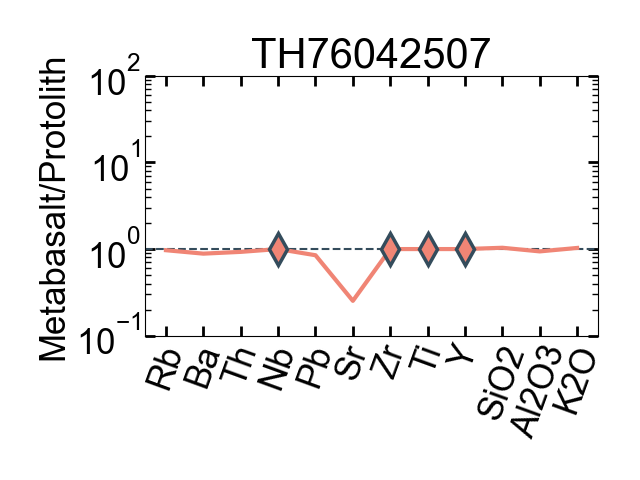
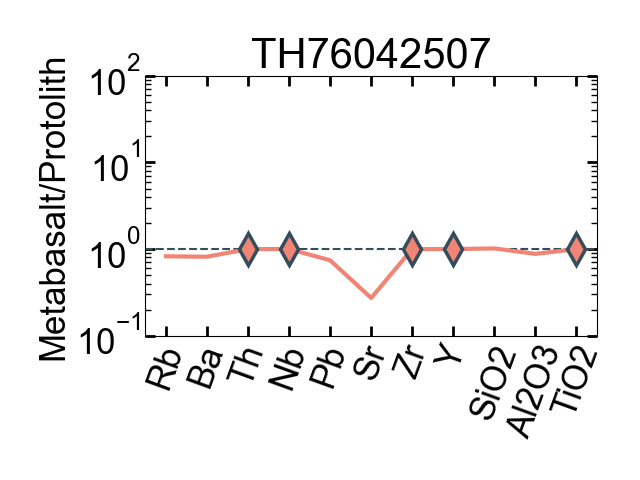
微修正->Ratioは正しく表示可能済み

diff --git a/pages/03_3nd_PRMs_Prediction.py b/pages/03_3nd_PRMs_Prediction.py
@@ -180,17 +180,16 @@ if uploaded_file is not None:
 if Ratio_flag:
     ######## 準備
     # List of elements to check for
-    target_elements = ['Si', 'Al', 'Mg', 'Na', 'P', 'Ca', 'Mn', 'Fe', 'K', 'Ti']
-    rename_elements = ['SiO2', 'Al2O3', 'MgO', 'Na2O', 'P2O5', 'CaO', 'MnO', 'FeO', 'K2O', 'TiO2']
+    #target_elements = ['Si', 'Al', 'Mg', 'Na', 'P', 'Ca', 'Mn', 'Fe', 'K', 'Ti']
+    #rename_elements = ['SiO2', 'Al2O3', 'MgO', 'Na2O', 'P2O5', 'CaO', 'MnO', 'FeO', 'K2O', 'TiO2']
     ######## 準備
     # 重複元素を_をつけて別元素として記録
     duplicates, duplicates_dict, mobile_elem_all = construction_PRM.check_and_modify_duplicates(mobile_elem, immobile_elem)
     
-    # duplicates に含まれている target_elements を major_duplicate としてリスト化
-    major_duplicate = [elem for elem in target_elements if elem in duplicates]
-    # major_duplicate を target_elements と rename_elements に従ってリネーム->PMで処理してから追加の際に使う
-    renamed_major_duplicate = [rename_elements[target_elements.index(elem)] for elem in major_duplicate]
-    st.write(major_duplicate, renamed_major_duplicate)
+    # duplicates に含まれている target_elements を major_duplicate としてリスト化->PMで処理してから追加の際に使う ver 240914
+    #major_duplicate = [elem for elem in target_elements if elem in duplicates]
+    # major_duplicate を target_elements と rename_elements に従ってリネーム
+    #renamed_major_duplicate = [rename_elements[target_elements.index(elem)] for elem in major_duplicate]
 
     duplicates_df = raw_data[duplicates].copy()
     duplicates_df.rename(columns=duplicates_dict, inplace=True)
@@ -220,14 +219,18 @@ else:
     PM, Location_Ref_Data = prm.preprocessing_normalize_output(raw_data, DataBase, SAMPLE_INFO, location_info)
 
     ###### For ratio model -> PMにMajor元素の自己推定するためのデータを追加 ver 240914
-    major_duplicate_name = [elem + '_' for elem in major_duplicate]
-    PM[major_duplicate_name] = PM[major_duplicate].copy()
+    #major_duplicate_name = [elem + '_' for elem in major_duplicate]
+    # major_duplicate を target_elements と rename_elements に従ってリネーム
+    #renamed_major_duplicate = [rename_elements[target_elements.index(elem)] for elem in major_duplicate]
+    #PM[major_duplicate_name] = PM[major_duplicate].copy()
+    #PM[renamed_major_duplicate] = PM[renamed_major_duplicate].copy()
+    #st.write(major_duplicate_name, renamed_major_duplicate)
     ###### For ratio model -> PMにMajor元素の自己推定するためのデータを追加 ver 240914
 
     ###### estimation by PRM
     # model folder
     now_model_folder_name = model_path
-
+    st.write(model_path)
     # estimate
     mobile_data_compile, spidergram_data_compile, mobile_data_compile_dist, spidergram_data_compile_dist = prm_predict.predict_protolith(mobile_elem, immobile_elem, PM, Location_Ref_Data, now_model_folder_name)
 

diff --git a/0_BASE_Model_Construction.py b/0_BASE_Model_Construction.py
@@ -173,6 +173,14 @@ print("FIN: Preprocessing")
 
 ################################################################# Main
 ######################### initial setting-> element
+
+"""
+Caution when determing the input/output elements
+主要元素の設定を"Ti"などとした場合にエラーが出る　
+-> Applyするときに、Inputの設定で問題が生じるため：具体的にはPMノーマライズ前に元素設定をするため、Tiではエラーが発生する
+->"TiO2"のように元素を設定するようにすること
+"""
+
 # Normal LightGBM
 #elem_all = ['Rb', 'Ba', 'Th', 'U', 'Nb', 'K', 'La', 'Ce', 'Pb', 'Sr', 'P', 'Nd', 'Zr', 'Ti', 'Y', 'Yb', 'Lu', 'SiO2', 'Al2O3', 'MgO', 'Na2O', 'P2O5', 'CaO', 'K2O', 'MnO', 'FeO']
 #mobile_elem_all = ['Rb', 'Ba', 'Th', 'U', 'Nb', 'K', 'La', 'Ce', 'Pb', 'Sr', 'P', 'Nd', 'Zr', 'Ti', 'Y', 'Yb', 'Lu', 'SiO2', 'Al2O3', 'MgO', 'Na2O', 'P2O5', 'CaO',  'K2O', 'MnO', 'FeO',]
@@ -186,9 +194,9 @@ print("FIN: Preprocessing")
 #immobile_elem_all = ['Zr', 'Th', 'Ti', 'Nb', 'Al2O3', 'Cr', ]
 
 #elem_all = ["Ti", "Nb", "Zr", "Y", "Th", "SiO2", "Al2O3", "MnO", "MgO", "CaO", "Na2O", "K2O", 'Rb', 'Ba', 'U', 'La', 'Ce', 'Pb', 'Sr', 'P', 'Nd', 'Yb', 'Lu',]
-elem_all = ["Ti", "Nb", "Zr", "Y", "Th", "SiO2", "K2O", 'Rb', 'Ba', 'Pb',]
+elem_all = ["TiO2", "Nb", "Zr", "Y", "Th", "SiO2", "K2O", 'Rb', 'Ba', 'Pb', "Sr", 'Al2O3', 'MgO', 'Na2O', 'P2O5', 'CaO', 'MnO', 'FeO']
 mobile_elem_all = elem_all
-immobile_elem_all = ["Ti", "Nb", "Zr", "Y", "Th"] # , 
+immobile_elem_all = ["TiO2", "Nb", "Zr", "Y", "Th"] # , 
 ######################### initial setting-> element
 
 """

diff --git a/PRM_Predict_liblary.py b/PRM_Predict_liblary.py
@@ -377,11 +377,11 @@ def model_main(mobile_elem, immobile_elem, Raw_metamorphic_rock, Raw_metamorphic
     path_all_models = path_1 + path_2
     print(path_all_models)
 
-    #図を保存するディレクトリの作成
     path_4 = "/Figure"
     path_figure_all = path_all_share + path_4
-    make_dirs(path_figure_all)
-
+    if os.path.exists(path_all_share): # add ver 240914
+        #図を保存するディレクトリの作成
+        make_dirs(path_figure_all)
 
     #######################################################使うデータの整理
     #目的yと入力データXを設定
